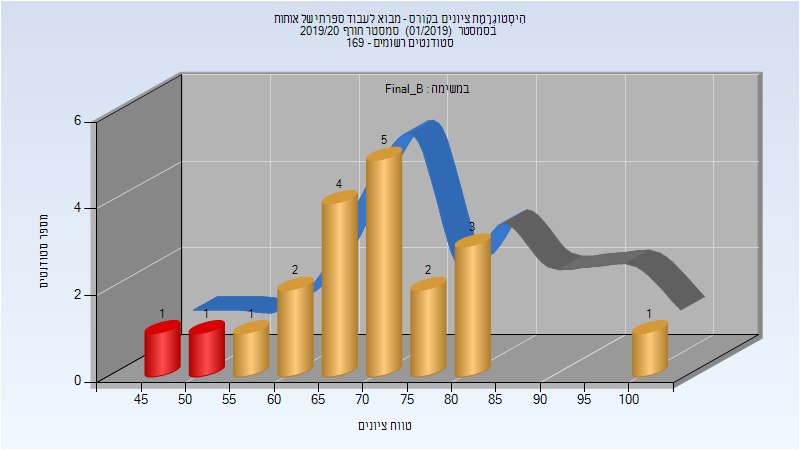
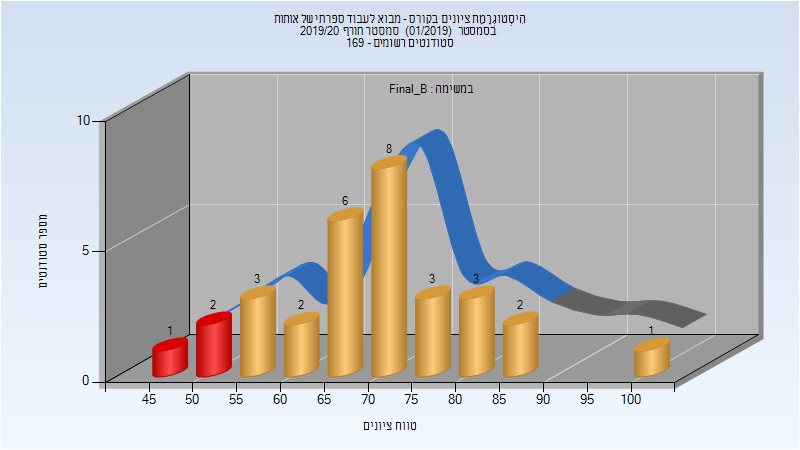
Deploy michael-maltsev/technion-histograms to github.com/michael-maltsev/technion-histograms.git:gh-pages

diff --git a/044198/index.html b/044198/index.html
@@ -1319,13 +1319,13 @@
 </thead>
 <tbody>
 <tr>
-<td>20</td>
-<td>17/3</td>
-<td>85</td>
+<td>31</td>
+<td>26/5</td>
+<td>84</td>
 <td>33</td>
 <td>100</td>
-<td>65.4</td>
-<td>67.5</td>
+<td>65.323</td>
+<td>67</td>
 </tr>
 </tbody>
 </table>
@@ -1345,13 +1345,13 @@
 </thead>
 <tbody>
 <tr>
-<td>20</td>
-<td>18/2</td>
+<td>31</td>
+<td>28/3</td>
 <td>90</td>
 <td>47</td>
 <td>100</td>
-<td>70.2</td>
-<td>70.5</td>
+<td>70.065</td>
+<td>70</td>
 </tr>
 </tbody>
 </table>

diff --git a/044137/index.html b/044137/index.html
@@ -326,7 +326,7 @@
 <td>97</td>
 <td>50</td>
 <td>100</td>
-<td>81.575</td>
+<td>81.781</td>
 <td>85</td>
 </tr>
 </tbody>

diff --git a/044198/README.md b/044198/README.md
@@ -409,7 +409,7 @@
 
 | סטודנטים | עברו/נכשלו | אחוז עוברים | ציון מינימלי | ציון מקסימלי | ממוצע | חציון |
 | ---- | ---- | ---- | ---- | ---- | ---- | ---- |
-| 20 | 17/3 | 85 | 33 | 100 | 65.4 | 67.5 |
+| 31 | 26/5 | 84 | 33 | 100 | 65.323 | 67 |
 
 ### סופי מועד ב'
 
@@ -417,7 +417,7 @@
 
 | סטודנטים | עברו/נכשלו | אחוז עוברים | ציון מינימלי | ציון מקסימלי | ממוצע | חציון |
 | ---- | ---- | ---- | ---- | ---- | ---- | ---- |
-| 20 | 18/2 | 90 | 47 | 100 | 70.2 | 70.5 |
+| 31 | 28/3 | 90 | 47 | 100 | 70.065 | 70 |
 
 ### סופי
 

diff --git a/044137/README.md b/044137/README.md
@@ -95,7 +95,7 @@
 
 | סטודנטים | עברו/נכשלו | אחוז עוברים | ציון מינימלי | ציון מקסימלי | ממוצע | חציון |
 | ---- | ---- | ---- | ---- | ---- | ---- | ---- |
-| 198 | 193/5 | 97 | 50 | 100 | 81.575 | 85 |
+| 198 | 193/5 | 97 | 50 | 100 | 81.781 | 85 |
 
 ## אביב 2020
 
